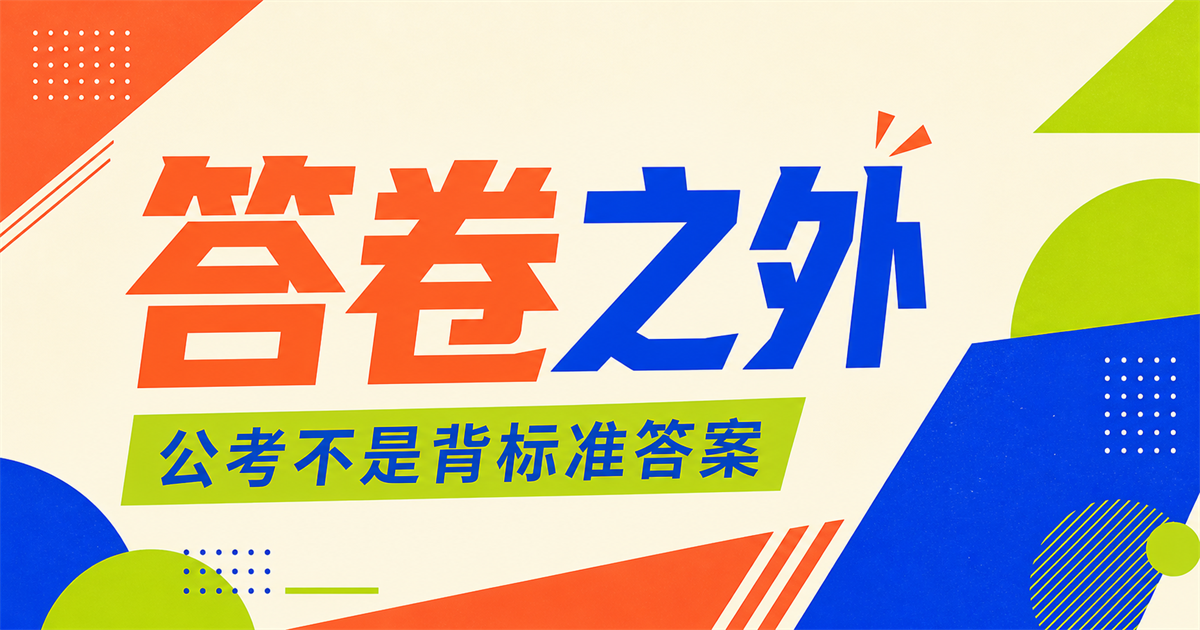
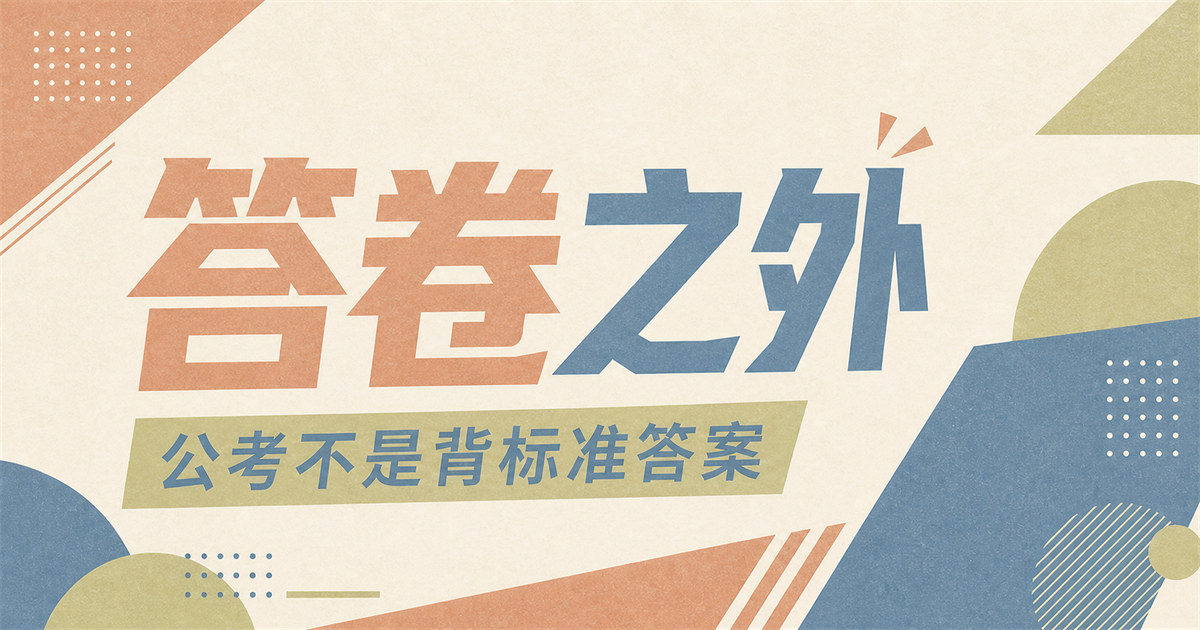
Soften palette and connect section flow

diff --git a/app/globals.css b/app/globals.css
@@ -1,11 +1,11 @@
 @import 'tailwindcss';
 
 :root {
-  --paper: #f1efe7;
-  --ink: #171814;
-  --acid: #d8ff3e;
-  --orange: #ff5f35;
-  --blue: #3157e3;
+  --paper: #f4f0e7;
+  --ink: #25251f;
+  --acid: #d6dfa0;
+  --orange: #d78369;
+  --blue: #6679ad;
   --scroll-progress: 0;
   --pointer-x: 50vw;
   --pointer-y: 50vh;
@@ -20,22 +20,27 @@ body {
   font-family: "PingFang SC", "Microsoft YaHei", Arial, sans-serif;
 }
 a { color: inherit; text-decoration: none; }
+main { overflow: hidden; background: radial-gradient(circle at 8% 34%, rgba(215,131,105,.1), transparent 24%), radial-gradient(circle at 92% 64%, rgba(102,121,173,.09), transparent 26%), var(--paper); }
 .scroll-progress { position: fixed; z-index: 100; inset: 0 auto auto 0; width: calc(var(--scroll-progress) * 100%); height: 5px; background: var(--blue); transform-origin: left; pointer-events: none; }
 .cursor-orb { position: fixed; z-index: 99; top: -16px; left: -16px; width: 32px; height: 32px; border: 1px solid var(--blue); border-radius: 50%; pointer-events: none; transition: width .18s ease, height .18s ease, background .18s ease; mix-blend-mode: multiply; }
 [data-reveal] { opacity: 0; transform: translateY(34px); transition: opacity .7s ease, transform .7s cubic-bezier(.2,.7,.2,1); }
 [data-reveal].is-visible { opacity: 1; transform: translateY(0); }
 
 .nav-shell {
-  position: absolute;
-  inset: 0 0 auto;
-  z-index: 10;
-  height: 90px;
+  position: fixed;
+  inset: 12px 18px auto;
+  z-index: 80;
+  height: 66px;
   display: grid;
   grid-template-columns: 1fr auto 1fr;
   align-items: center;
-  padding: 0 clamp(22px, 5vw, 76px);
-  border-bottom: 1px solid rgba(23,24,20,.2);
+  padding: 0 clamp(18px, 3vw, 42px);
+  border: 1px solid rgba(37,37,31,.15);
+  border-radius: 999px;
   color: var(--ink);
+  background: rgba(244,240,231,.78);
+  box-shadow: 0 10px 34px rgba(37,37,31,.08);
+  backdrop-filter: blur(18px);
 }
 .brand { display: flex; align-items: center; gap: 12px; font-weight: 700; letter-spacing: .08em; }
 .brand-mark { display: grid; place-items: center; width: 34px; height: 34px; border: 1px solid currentColor; border-radius: 50%; font-family: Georgia, serif; }
@@ -51,8 +56,11 @@ a { color: inherit; text-decoration: none; }
   min-height: 820px;
   height: 100svh;
   overflow: hidden;
+  width: calc(100% - 24px);
+  margin: 0 12px;
+  border-radius: 0 0 54px 54px;
   padding: clamp(150px, 21vh, 210px) clamp(22px, 6vw, 92px) 52px;
-  background: #f56b49;
+  background: #e9a087;
   color: var(--ink);
 }
 .hero::before {
@@ -95,12 +103,12 @@ a { color: inherit; text-decoration: none; }
 .hero-orbit span { position: absolute; top: 50%; left: -9px; width: 18px; height: 18px; border-radius: 50%; background: var(--acid); border: 1px solid var(--ink); }
 @keyframes orbit-spin { to { transform: rotate(360deg); } }
 
-.manifesto { padding: clamp(90px, 12vw, 170px) clamp(22px, 8vw, 120px) 90px; }
+.manifesto { position: relative; z-index: 3; margin-top: -44px; padding: clamp(118px, 13vw, 190px) clamp(22px, 8vw, 120px) 110px; border-radius: 52px 52px 0 0; background: var(--paper); }
 .manifesto > p { margin: 0; max-width: 1000px; font-family: "Songti SC", "SimSun", Georgia, serif; font-size: clamp(42px, 6.3vw, 96px); line-height: 1.25; letter-spacing: -.055em; }
 .manifesto > p span { position: relative; white-space: nowrap; }
 .manifesto > p span::after { content: ""; position: absolute; z-index: -1; left: -2%; right: -2%; bottom: 8%; height: 28%; background: var(--acid); transform: rotate(-1deg); }
 .manifesto-meta { margin-top: 70px; padding-top: 18px; border-top: 1px solid rgba(23,24,20,.25); display: flex; justify-content: space-between; font-size: 11px; letter-spacing: .12em; text-transform: uppercase; }
-.ticker { overflow: hidden; border-top: 1px solid var(--ink); border-bottom: 1px solid var(--ink); background: var(--acid); padding: 18px 0; }
+.ticker { position: relative; z-index: 4; overflow: hidden; margin: 0 4vw -28px; border: 1px solid rgba(37,37,31,.5); border-radius: 999px; background: var(--acid); padding: 15px 0; transform: rotate(-.7deg); box-shadow: 6px 7px 0 rgba(37,37,31,.12); }
 .ticker-track { width: max-content; display: flex; align-items: center; gap: 28px; font-family: "Songti SC", "SimSun", Georgia, serif; font-size: clamp(24px, 3vw, 42px); animation: ticker-move 24s linear infinite; }
 .ticker-track i { color: var(--blue); font-style: normal; }
 @keyframes ticker-move { to { transform: translateX(-50%); } }
@@ -123,9 +131,13 @@ a { color: inherit; text-decoration: none; }
 .section-index.light { color: rgba(255,255,255,.52); opacity: 1; }
 
 .library {
+  position: relative;
   background: var(--blue);
   color: #fffdf5;
-  padding: clamp(90px, 10vw, 150px) clamp(22px, 6vw, 92px) 60px;
+  margin: 0 18px;
+  border-radius: 52px;
+  padding: clamp(125px, 12vw, 180px) clamp(22px, 6vw, 92px) 145px;
+  box-shadow: 0 26px 70px rgba(102,121,173,.16);
 }
 .section-heading { display: flex; justify-content: space-between; align-items: flex-end; margin-bottom: 70px; }
 .section-heading h2 { margin: 0; font-family: "Songti SC", "SimSun", Georgia, serif; font-size: clamp(58px, 8vw, 122px); line-height: .92; font-weight: 500; letter-spacing: -.07em; }
@@ -154,12 +166,12 @@ a { color: inherit; text-decoration: none; }
 .arrow { display: grid; place-items: center; width: 44px; height: 44px; border: 1px solid currentColor; border-radius: 50%; font-size: 20px; }
 .library-foot { display: flex; justify-content: space-between; margin-top: 40px; padding-top: 16px; border-top: 1px solid rgba(255,255,255,.2); font-size: 11px; letter-spacing: .1em; color: rgba(255,255,255,.4); }
 
-.clips { padding: clamp(90px, 11vw, 160px) clamp(22px, 6vw, 92px); background: var(--paper); }
+.clips { position: relative; z-index: 2; margin-top: -54px; padding: clamp(120px, 13vw, 180px) clamp(22px, 6vw, 92px); border-radius: 54px 54px 0 0; background: var(--paper); }
 .clip-grid { display: grid; grid-template-columns: repeat(3, 1fr); gap: 22px; }
 .clip-card { border-top: 1px solid var(--ink); padding-top: 14px; }
-.clip-visual { position: relative; height: clamp(220px, 27vw, 390px); overflow: hidden; background: #c7c3b7; }
-.clip-card:nth-child(2) .clip-visual { background: #b5b9a9; }
-.clip-card:nth-child(3) .clip-visual { background: #d46d4e; }
+.clip-visual { position: relative; height: clamp(220px, 27vw, 390px); overflow: hidden; background: #d0c7b8; }
+.clip-card:nth-child(2) .clip-visual { background: #bdc6b4; }
+.clip-card:nth-child(3) .clip-visual { background: #d7a08e; }
 .clip-visual::before { content: ""; position: absolute; inset: 12% 14%; border: 1px solid rgba(23,24,20,.32); border-radius: 50%; transform: rotate(-12deg); }
 .clip-visual::after { content: "课堂实录"; position: absolute; top: 50%; left: 50%; font-family: "Songti SC", "SimSun", Georgia, serif; font-size: clamp(33px, 4vw, 60px); white-space: nowrap; transform: translate(-50%,-50%) rotate(-8deg); opacity: .12; }
 .clip-number { position: absolute; top: 16px; left: 18px; font: italic 18px Georgia, serif; }
@@ -176,7 +188,8 @@ a { color: inherit; text-decoration: none; }
 .clip-copy blockquote { margin: 0 0 26px; min-height: 86px; font-family: "Songti SC", "SimSun", Georgia, serif; font-size: clamp(21px, 2vw, 30px); line-height: 1.5; font-weight: 600; }
 .clip-copy > span { font-size: 12px; opacity: .55; }
 
-.method { background: var(--acid); color: var(--ink); padding: clamp(90px, 10vw, 150px) clamp(22px, 8vw, 120px); display: grid; grid-template-columns: 1fr 1fr; gap: 9vw; }
+.method { position: relative; background: rgba(214,223,160,.78); color: var(--ink); margin: 0 18px; border: 1px solid rgba(37,37,31,.12); border-radius: 52px; padding: clamp(90px, 10vw, 150px) clamp(22px, 8vw, 120px); display: grid; grid-template-columns: 1fr 1fr; gap: 9vw; box-shadow: 0 24px 60px rgba(37,37,31,.07); }
+.method::before { content: ""; position: absolute; width: 110px; height: 110px; right: 9%; top: -38px; border: 1px solid rgba(37,37,31,.35); border-radius: 50%; background: var(--paper); }
 .method .section-index.light { color: rgba(23,24,20,.55); }
 .method-heading h2 { margin: 0; font-family: "Songti SC", "SimSun", Georgia, serif; font-size: clamp(46px, 5.5vw, 82px); line-height: 1.18; font-weight: 500; letter-spacing: -.055em; }
 .method-heading h2 span { color: var(--blue); }
@@ -187,7 +200,7 @@ a { color: inherit; text-decoration: none; }
 .method-steps h3 { margin: 0 0 10px; font-size: 20px; font-weight: 500; }
 .method-steps p { margin: 0; color: rgba(23,24,20,.6); line-height: 1.8; font-size: 13px; }
 
-.about { position: relative; padding: clamp(90px, 12vw, 180px) clamp(22px, 8vw, 120px); display: grid; grid-template-columns: 28% 1fr; gap: 8vw; overflow: hidden; }
+.about { position: relative; padding: clamp(130px, 14vw, 210px) clamp(22px, 8vw, 120px) clamp(90px, 10vw, 150px); display: grid; grid-template-columns: 28% 1fr; gap: 8vw; overflow: hidden; }
 .about-stamp { align-self: center; aspect-ratio: 1; display: flex; flex-direction: column; align-items: center; justify-content: center; gap: 8px; border: 1px solid var(--ink); border-radius: 50%; transform: rotate(-8deg); font-family: "Songti SC", "SimSun", Georgia, serif; font-size: clamp(32px, 4vw, 58px); }
 .about-stamp b { color: var(--orange); font: italic 22px Georgia, serif; }
 .about-copy h2 { margin: 0 0 60px; font-family: "Songti SC", "SimSun", Georgia, serif; font-size: clamp(44px, 5.8vw, 86px); line-height: 1.2; letter-spacing: -.055em; font-weight: 500; }
@@ -197,7 +210,7 @@ a { color: inherit; text-decoration: none; }
 .about-tags { display: flex; gap: 10px; margin-top: 44px; flex-wrap: wrap; }
 .about-tags span { padding: 9px 14px; border: 1px solid rgba(23,24,20,.35); border-radius: 100px; font-size: 11px; }
 
-.lead-magnet { display: grid; grid-template-columns: 2.2fr 1fr; margin: 0 clamp(22px, 6vw, 92px) clamp(90px, 10vw, 150px); border: 1px solid var(--ink); }
+.lead-magnet { display: grid; grid-template-columns: 2.2fr 1fr; overflow: hidden; margin: 0 clamp(22px, 6vw, 92px) clamp(110px, 11vw, 170px); border: 1px solid rgba(37,37,31,.55); border-radius: 42px; box-shadow: 0 24px 60px rgba(37,37,31,.08); }
 .lead-card { padding: clamp(38px, 6vw, 88px); background: var(--acid); }
 .lead-card h2 { margin: 30px 0; font-family: "Songti SC", "SimSun", Georgia, serif; font-size: clamp(62px, 8vw, 120px); line-height: .9; letter-spacing: -.07em; font-weight: 500; }
 .lead-card ul { margin: 45px 0; padding: 0; list-style: none; display: grid; gap: 14px; font-size: 13px; }
@@ -208,7 +221,7 @@ a { color: inherit; text-decoration: none; }
 .lead-side > span { font: italic clamp(90px, 13vw, 190px)/1 Georgia, serif; color: var(--orange); }
 .lead-side p { position: relative; z-index: 2; margin: 0; font-size: 18px; line-height: 1.6; }
 
-.contact { position: relative; overflow: hidden; background: #9dbcf8; color: var(--ink); padding: clamp(90px, 10vw, 150px) clamp(22px, 8vw, 120px); }
+.contact { position: relative; overflow: hidden; margin: 0 12px 12px; border-radius: 54px; background: #c4cfe3; color: var(--ink); padding: clamp(100px, 11vw, 165px) clamp(22px, 8vw, 120px); box-shadow: 0 24px 70px rgba(102,121,173,.13); }
 .contact-grid { position: absolute; inset: 0; opacity: .18; background-image: linear-gradient(90deg, rgba(23,24,20,.35) 1px, transparent 1px); background-size: 16.666% 100%; }
 .contact .section-index.light { color: rgba(23,24,20,.55); }
 .contact h2 { position: relative; margin: 0; font-family: "Songti SC", "SimSun", Georgia, serif; font-size: clamp(72px, 10.6vw, 160px); line-height: .94; letter-spacing: -.08em; font-weight: 500; }
@@ -223,7 +236,7 @@ a { color: inherit; text-decoration: none; }
 .contact-info strong { margin-top: 26px; font-family: "Songti SC", "SimSun", Georgia, serif; font-size: 34px; font-weight: 500; }
 .contact-info p { margin: auto 0 0; padding-top: 16px; border-top: 1px solid rgba(23,24,20,.22); color: rgba(23,24,20,.52); font-size: 11px; line-height: 1.7; }
 
-footer { display: grid; grid-template-columns: 1fr auto 1fr; align-items: center; padding: 32px clamp(22px, 5vw, 76px); background: var(--paper); color: rgba(23,24,20,.55); border-top: 1px solid rgba(23,24,20,.18); font-size: 11px; }
+footer { display: grid; grid-template-columns: 1fr auto 1fr; align-items: center; padding: 38px clamp(22px, 5vw, 76px); background: transparent; color: rgba(23,24,20,.55); font-size: 11px; }
 .footer-brand { color: var(--ink); }
 footer > p { margin: 0; }
 footer > a:last-child { justify-self: end; }
@@ -241,6 +254,7 @@ footer > a:last-child { justify-self: end; }
 }
 
 @media (max-width: 760px) {
+  .nav-shell { inset: 8px 10px auto; height: 60px; }
   .section-heading { display: block; margin-bottom: 45px; }
   .section-heading > p { margin-top: 25px; }
   .library-list { grid-template-columns: 1fr; }
@@ -260,6 +274,13 @@ footer > a:last-child { justify-self: end; }
   footer { grid-template-columns: 1fr auto; gap: 24px; }
   footer > p { display: none; }
   .cursor-orb { display: none; }
+  .hero { width: calc(100% - 12px); margin: 0 6px; border-radius: 0 0 34px 34px; }
+  .manifesto { margin-top: -26px; border-radius: 32px 32px 0 0; }
+  .ticker { margin-inline: 12px; }
+  .library, .method { margin-inline: 7px; border-radius: 34px; }
+  .clips { border-radius: 34px 34px 0 0; }
+  .lead-magnet { border-radius: 28px; }
+  .contact { margin-inline: 6px; border-radius: 34px; }
 }
 
 @media (prefers-reduced-motion: reduce) {

diff --git a/app/page.tsx b/app/page.tsx
@@ -78,7 +78,7 @@ export default function Home() {
         </div>
       </section>
 
-      <section className="manifesto" data-reveal>
+      <section className="manifesto">
         <div className="section-index">02 — 站点宣言</div>
         <p>不是答案仓库，<br />是一间持续生长的<span>思考练习室</span>。</p>
         <div className="manifesto-meta">
@@ -183,7 +183,7 @@ export default function Home() {
         </ol>
       </section>
 
-      <section className="about" id="about" data-reveal>
+      <section className="about" id="about">
         <div className="about-stamp" aria-hidden="true">
           <span>申论</span><b>×</b><span>面试</span>
         </div>
@@ -198,7 +198,7 @@ export default function Home() {
         </div>
       </section>
 
-      <section className="lead-magnet" data-reveal>
+      <section className="lead-magnet">
         <div className="lead-card">
           <p className="section-index">免费领取 · FREE DOWNLOAD</p>
           <h2>面试表达<br />自检清单</h2>
@@ -215,7 +215,7 @@ export default function Home() {
         </div>
       </section>
 
-      <section className="contact" id="contact" data-reveal>
+      <section className="contact" id="contact">
         <div className="contact-grid" aria-hidden="true" />
         <p className="section-index light">07 — KEEP IN TOUCH</p>
         <h2>想把一道题<br />真正<span>想明白</span>？</h2>
